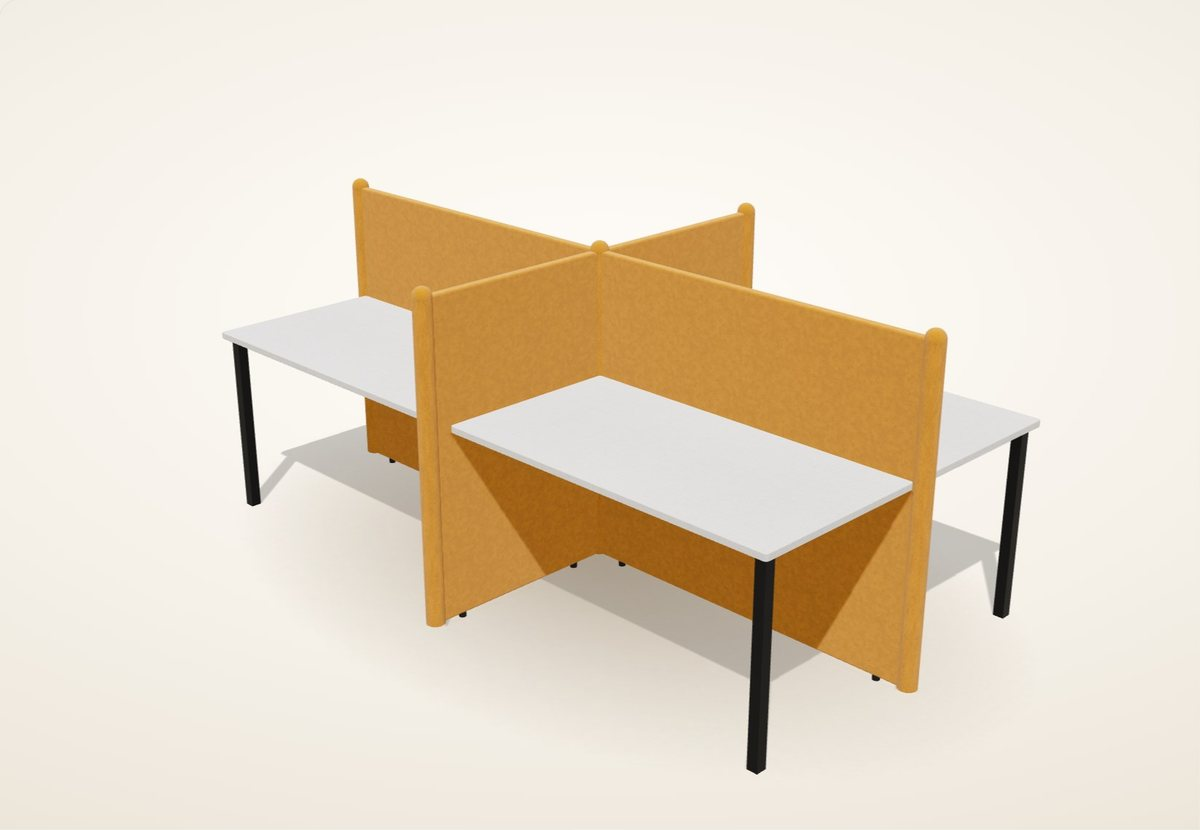
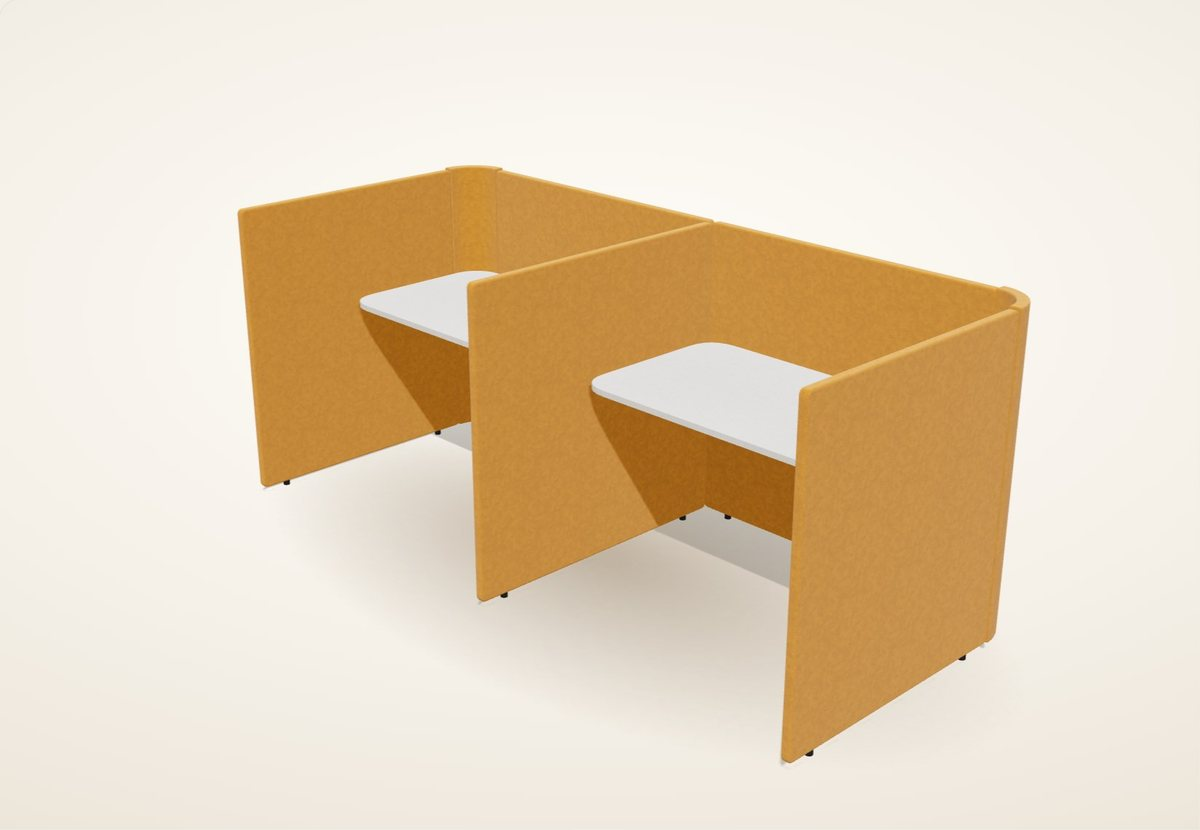
build3d: engine v1.13.1; open-space card renders with curved corners
Claude-Session: https://claude.ai/code/session_01JG1aApTUvxwtxZTArjXguX

Changed region(s): [[0.185, 0.1807, 0.8633, 0.9337]]

diff --git a/modulary/build3d.js b/modulary/build3d.js
@@ -1,7 +1,7 @@
 /* MODULARY / MORE – "בונים בתלת־ממד": one page, every configurator product.
    Loads the shared MORE configurator engine (pinned commit) and swaps products with ?p=<id>.
    #mb3d data attributes: data-quote (contact URL), data-brand (title suffix), data-prices="on" to show list prices. */
-const ENGINE = 'https://cdn.jsdelivr.net/gh/modulary-office/more-configurator@ee70b6d7e43028a0d8d529b9425f5950f1d356c7/dist/';
+const ENGINE = 'https://cdn.jsdelivr.net/gh/modulary-office/more-configurator@a0d29a49b29d2d36e3d8c948dae172adf019ad2f/dist/';
 const GROUPS = [
   ['שולחנות', [['office-desk', 'שולחן עבודה'], ['manager-desk', 'שולחן מנהל'], ['desk-frame', 'שלד לשולחן']]],
   ['עמדות עבודה', [['bench-desk', 'עמדות משותפות'], ['duo-bench', 'Duo Bench עם מחיצות']]],
